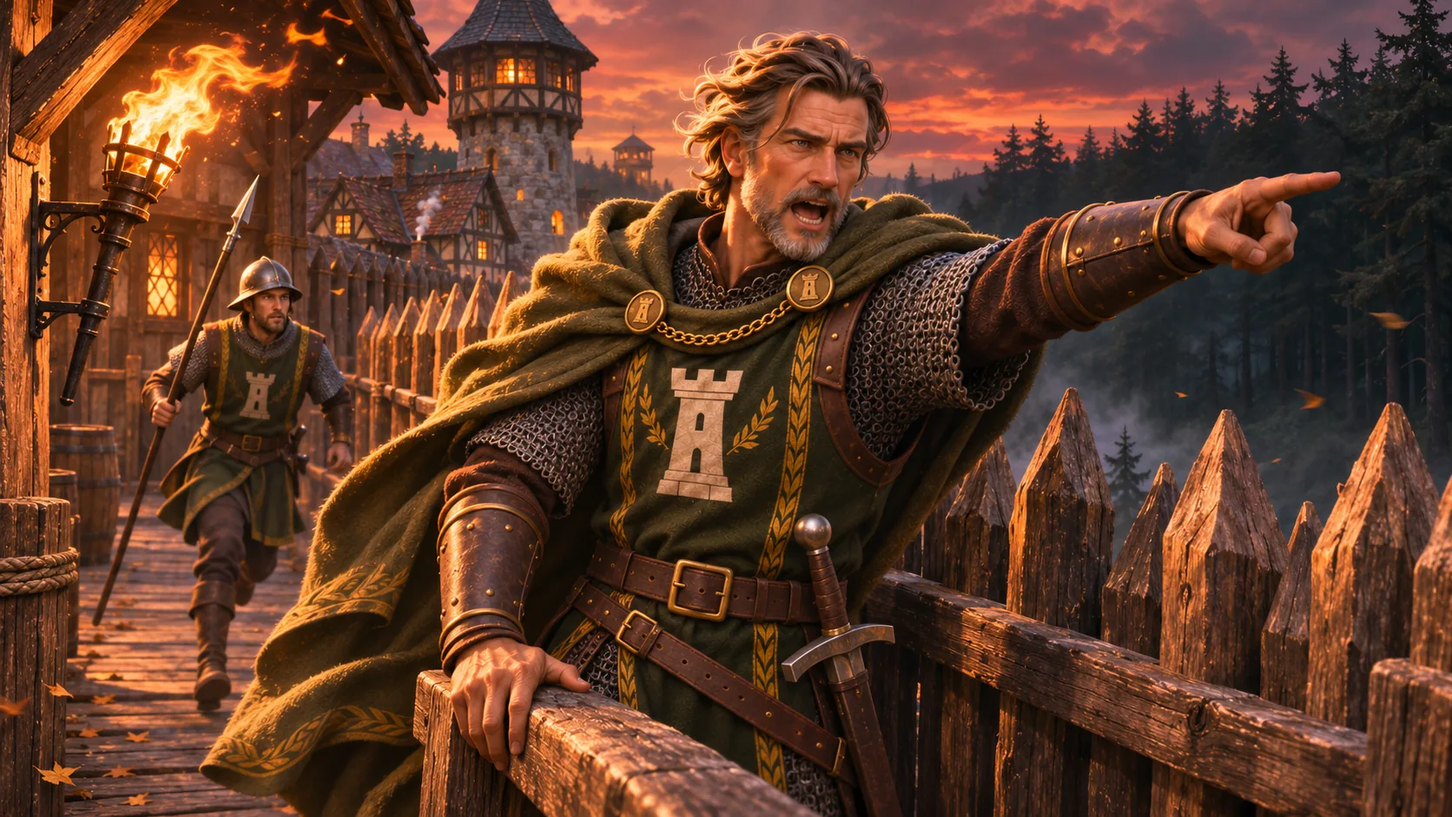
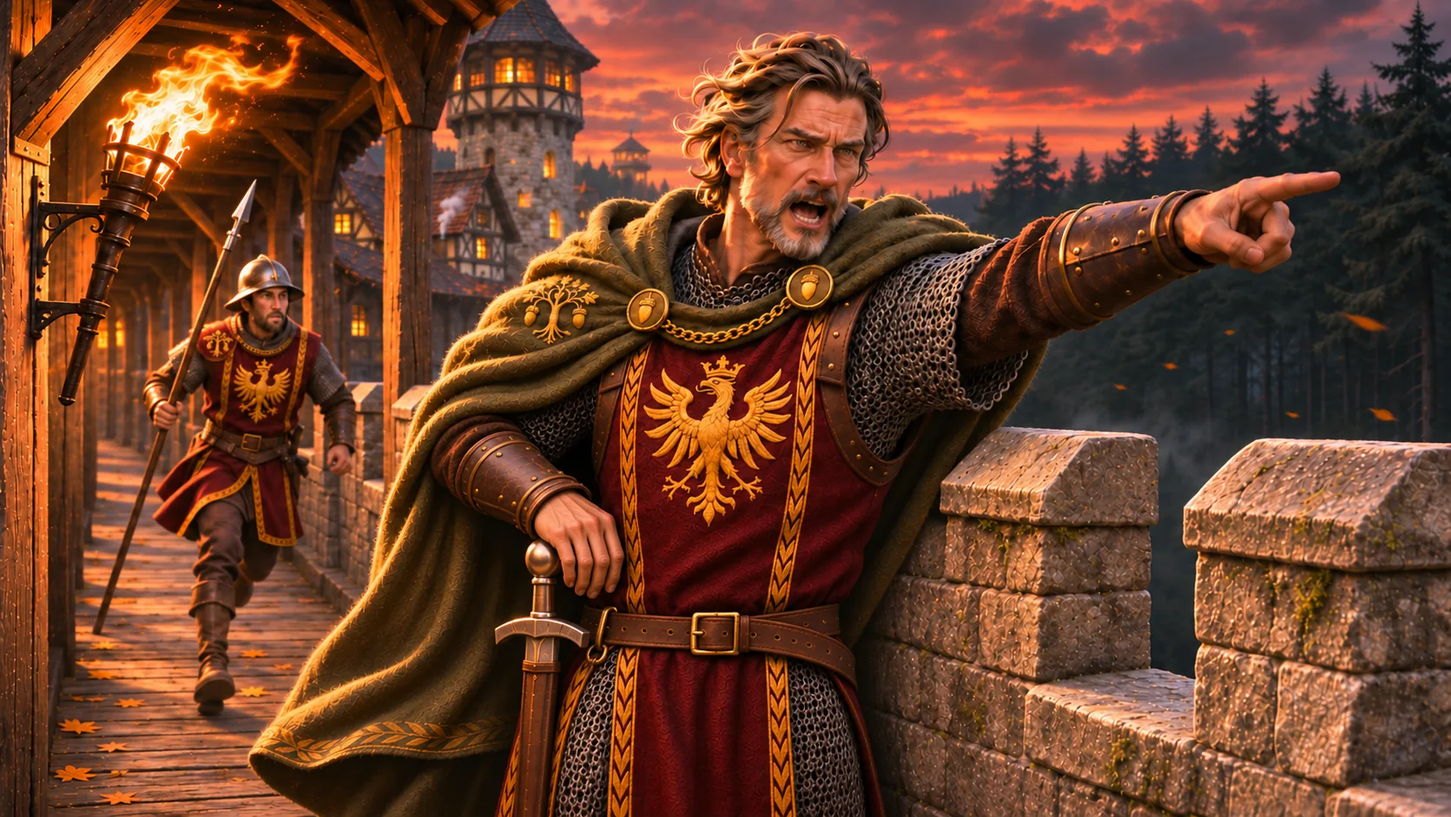
Show Captain Roland on the stone wall in the king's colours
Roland now stands on the covered wall-walk of the stone wall in his
oxblood tabard with the eagle, Hayn's oak on his cloak and his hand on
his sword, with a guard in the same colours behind him.

diff --git a/de/characters/index.html b/de/characters/index.html
@@ -39,7 +39,7 @@
 </div></section>
 <section class="wrap section ">
 <p class="lede" style="margin-bottom:64px">Kurz, bodenständig und ein wenig trocken: die Leute, die Hayn am Laufen halten und dich hinausschicken.</p>
-<div class="feature"><div class="feature-media"><figure class="fig "><a class="lb" href="../../assets/img/full/ACT-CH-ROLAND.webp" data-caption=""><img src="../../assets/img/thumb/ACT-CH-ROLAND.webp" alt="Hauptmann Roland" width="960" height="540" loading="lazy" decoding="async"></a></figure></div><div class="feature-text"><h3>Hauptmann Roland</h3><p class="job-role" style="font-size:1rem;color:var(--glyph)">Hauptmann der Wache</p><p>Ein müder, anständiger Grenzhauptmann mit zu viel Straße zum Bewachen und zu wenig Leuten dafür. Er gibt dir deine erste Aufgabe und die meisten danach.</p><p class="tags"><span>Rathaus & Wachhaus</span></p><blockquote class="quote"><p>„Du kannst eine Waffe halten? Gut. Damit bist du den meisten meiner Wache voraus.“</p><cite>Hauptmann Roland</cite></blockquote></div></div><div class="feature flip"><div class="feature-media"><figure class="fig "><a class="lb" href="../../assets/img/full/ACT-CH-BRON.webp" data-caption=""><img src="../../assets/img/thumb/ACT-CH-BRON.webp" alt="Bron" width="960" height="540" loading="lazy" decoding="async"></a></figure></div><div class="feature-text"><h3>Bron</h3><p class="job-role" style="font-size:1rem;color:var(--glyph)">Drillmeister · Paladin-Gilde</p><p>Barsch, laut und öfter im Recht, als irgendwem lieb ist. Bron hat jede Wache in Hayn ausgebildet.</p><p class="tags"><span>Kaserne & Übungsplatz</span></p><blockquote class="quote"><p>„Schild hoch. Nochmal.“</p><cite>Bron</cite></blockquote></div></div><div class="feature"><div class="feature-media"><figure class="fig "><a class="lb" href="../../assets/img/full/ACT-CH-HAGEN.webp" data-caption=""><img src="../../assets/img/thumb/ACT-CH-HAGEN.webp" alt="Hagen" width="960" height="540" loading="lazy" decoding="async"></a></figure></div><div class="feature-text"><h3>Hagen</h3><p class="job-role" style="font-size:1rem;color:var(--glyph)">Rangermeister · Ranger-Gilde</p><p>Ruhig. Hagen kennt den Wolfsforst besser als jeder andere, und er hat als Erster bemerkt, dass sich das Rudel verändert.</p><p class="tags"><span>Jägerhütte</span></p><blockquote class="quote"><p>„Sie sind nicht hungrig. Das macht mir Sorgen.“</p><cite>Hagen</cite></blockquote></div></div><div class="feature flip"><div class="feature-media"><figure class="fig "><a class="lb" href="../../assets/img/full/ACT-CH-MIRA.webp" data-caption=""><img src="../../assets/img/thumb/ACT-CH-MIRA.webp" alt="Mira" width="960" height="540" loading="lazy" decoding="async"></a></figure></div><div class="feature-text"><h3>Mira</h3><p class="job-role" style="font-size:1rem;color:var(--glyph)">Kräuterkundige · Weißmagier-Gilde</p><p>Warmherzig und praktisch, und eine Shumadii vom elfenhaften Volk aus einer anderen Welt. Mira flickt die Stadt zusammen, verkauft Kräuter und lehrt das Heilen am alten Quellschrein in ihrem Garten.</p><p class="tags"><span>Kräuterhaus & Quellschrein</span></p><blockquote class="quote"><p>„Setz dich. Trink das. Dann sag mir, welcher Wolf.“</p><cite>Mira</cite></blockquote></div></div><div class="feature"><div class="feature-media"><figure class="fig "><a class="lb" href="../../assets/img/full/ACT-CH-ELWYN.webp" data-caption=""><img src="../../assets/img/thumb/ACT-CH-ELWYN.webp" alt="Elwyn" width="960" height="540" loading="lazy" decoding="async"></a></figure></div><div class="feature-text"><h3>Elwyn</h3><p class="job-role" style="font-size:1rem;color:var(--glyph)">Der Magier · Elementaristen-Gilde</p><p>Ein Shumadii aus dem elfenhaften Volk einer anderen Welt, älter, als sich irgendwer in Hayn erinnern kann. Neugierig und etwas zerstreut, mit Kerzen, die auf Bücherstapeln heruntergebrannt sind. Das rote Leuchten im Turmfenster ist die einzige Magie, die die meisten Stadtbewohner je sehen.</p><p class="tags"><span>Elwyns Turm</span></p><blockquote class="quote"><p>„Ah, ein Schüler. Pass auf die Bücher auf. Und den Boden. Und darauf.“</p><cite>Elwyn</cite></blockquote></div></div><div class="feature flip"><div class="feature-media"><figure class="fig "><a class="lb" href="../../assets/img/full/ACT-CH-HALDOR.webp" data-caption=""><img src="../../assets/img/thumb/ACT-CH-HALDOR.webp" alt="Hermann" width="960" height="540" loading="lazy" decoding="async"></a></figure></div><div class="feature-text"><h3>Hermann</h3><p class="job-role" style="font-size:1rem;color:var(--glyph)">Der Schmied</p><p>Hermann verkauft Waffen und Rüstungen, kauft Felle und bringt jedem, der fünf Felle und etwas Eisen hat, bei, wie man Armschienen macht.</p><p class="tags"><span>Die Schmiede</span></p><blockquote class="quote"><p>„Felle. Keine Fetzen. Felle.“</p><cite>Hermann</cite></blockquote></div></div>
+<div class="feature"><div class="feature-media"><figure class="fig "><a class="lb" href="../../assets/img/full/ACT-CH-ROLAND.webp" data-caption=""><img src="../../assets/img/thumb/ACT-CH-ROLAND.webp" alt="Hauptmann Roland" width="960" height="541" loading="lazy" decoding="async"></a></figure></div><div class="feature-text"><h3>Hauptmann Roland</h3><p class="job-role" style="font-size:1rem;color:var(--glyph)">Hauptmann der Wache</p><p>Ein müder, anständiger Grenzhauptmann mit zu viel Straße zum Bewachen und zu wenig Leuten dafür. Er gibt dir deine erste Aufgabe und die meisten danach.</p><p class="tags"><span>Rathaus & Wachhaus</span></p><blockquote class="quote"><p>„Du kannst eine Waffe halten? Gut. Damit bist du den meisten meiner Wache voraus.“</p><cite>Hauptmann Roland</cite></blockquote></div></div><div class="feature flip"><div class="feature-media"><figure class="fig "><a class="lb" href="../../assets/img/full/ACT-CH-BRON.webp" data-caption=""><img src="../../assets/img/thumb/ACT-CH-BRON.webp" alt="Bron" width="960" height="540" loading="lazy" decoding="async"></a></figure></div><div class="feature-text"><h3>Bron</h3><p class="job-role" style="font-size:1rem;color:var(--glyph)">Drillmeister · Paladin-Gilde</p><p>Barsch, laut und öfter im Recht, als irgendwem lieb ist. Bron hat jede Wache in Hayn ausgebildet.</p><p class="tags"><span>Kaserne & Übungsplatz</span></p><blockquote class="quote"><p>„Schild hoch. Nochmal.“</p><cite>Bron</cite></blockquote></div></div><div class="feature"><div class="feature-media"><figure class="fig "><a class="lb" href="../../assets/img/full/ACT-CH-HAGEN.webp" data-caption=""><img src="../../assets/img/thumb/ACT-CH-HAGEN.webp" alt="Hagen" width="960" height="540" loading="lazy" decoding="async"></a></figure></div><div class="feature-text"><h3>Hagen</h3><p class="job-role" style="font-size:1rem;color:var(--glyph)">Rangermeister · Ranger-Gilde</p><p>Ruhig. Hagen kennt den Wolfsforst besser als jeder andere, und er hat als Erster bemerkt, dass sich das Rudel verändert.</p><p class="tags"><span>Jägerhütte</span></p><blockquote class="quote"><p>„Sie sind nicht hungrig. Das macht mir Sorgen.“</p><cite>Hagen</cite></blockquote></div></div><div class="feature flip"><div class="feature-media"><figure class="fig "><a class="lb" href="../../assets/img/full/ACT-CH-MIRA.webp" data-caption=""><img src="../../assets/img/thumb/ACT-CH-MIRA.webp" alt="Mira" width="960" height="540" loading="lazy" decoding="async"></a></figure></div><div class="feature-text"><h3>Mira</h3><p class="job-role" style="font-size:1rem;color:var(--glyph)">Kräuterkundige · Weißmagier-Gilde</p><p>Warmherzig und praktisch, und eine Shumadii vom elfenhaften Volk aus einer anderen Welt. Mira flickt die Stadt zusammen, verkauft Kräuter und lehrt das Heilen am alten Quellschrein in ihrem Garten.</p><p class="tags"><span>Kräuterhaus & Quellschrein</span></p><blockquote class="quote"><p>„Setz dich. Trink das. Dann sag mir, welcher Wolf.“</p><cite>Mira</cite></blockquote></div></div><div class="feature"><div class="feature-media"><figure class="fig "><a class="lb" href="../../assets/img/full/ACT-CH-ELWYN.webp" data-caption=""><img src="../../assets/img/thumb/ACT-CH-ELWYN.webp" alt="Elwyn" width="960" height="540" loading="lazy" decoding="async"></a></figure></div><div class="feature-text"><h3>Elwyn</h3><p class="job-role" style="font-size:1rem;color:var(--glyph)">Der Magier · Elementaristen-Gilde</p><p>Ein Shumadii aus dem elfenhaften Volk einer anderen Welt, älter, als sich irgendwer in Hayn erinnern kann. Neugierig und etwas zerstreut, mit Kerzen, die auf Bücherstapeln heruntergebrannt sind. Das rote Leuchten im Turmfenster ist die einzige Magie, die die meisten Stadtbewohner je sehen.</p><p class="tags"><span>Elwyns Turm</span></p><blockquote class="quote"><p>„Ah, ein Schüler. Pass auf die Bücher auf. Und den Boden. Und darauf.“</p><cite>Elwyn</cite></blockquote></div></div><div class="feature flip"><div class="feature-media"><figure class="fig "><a class="lb" href="../../assets/img/full/ACT-CH-HALDOR.webp" data-caption=""><img src="../../assets/img/thumb/ACT-CH-HALDOR.webp" alt="Hermann" width="960" height="540" loading="lazy" decoding="async"></a></figure></div><div class="feature-text"><h3>Hermann</h3><p class="job-role" style="font-size:1rem;color:var(--glyph)">Der Schmied</p><p>Hermann verkauft Waffen und Rüstungen, kauft Felle und bringt jedem, der fünf Felle und etwas Eisen hat, bei, wie man Armschienen macht.</p><p class="tags"><span>Die Schmiede</span></p><blockquote class="quote"><p>„Felle. Keine Fetzen. Felle.“</p><cite>Hermann</cite></blockquote></div></div>
 <h2 style="margin-top:80px">Außerdem in der Stadt</h2>
 <div class="modes"><div class="mode"><h3>Der Wirt</h3><p>Führt die Goldene Eichel. Bett, Essen und ein Ort, zu dem man zurückkehrt.</p></div><div class="mode"><h3>Der Krämer</h3><p>Tränke, Seile, Lampen und Taschen, am Platz.</p></div><div class="mode"><h3>Der Holzfäller</h3><p>Am Waldrand, mit etwas zu den Wölfen zu sagen.</p></div><div class="mode"><h3>Der Händler</h3><p>Wartet am Runenportal auf jemanden, der seinen Karren nach Frankfurt bringt.</p></div><div class="mode"><h3>Der verwundete Kundschafter</h3><p>Auf der Straße zu finden, hinter dem Hinterhalt.</p></div><div class="mode"><h3>Stadtbewohner</h3><p>Wachen, Händler, ein Bäcker, ein Müller, Kinder, ein Barde im Gasthaus und ein Hund, der die Katze jagt.</p></div></div></section>
 <div class="wrap"><nav class="pager" aria-label="Page"><a class="prev" href="../../de/world/road.html"><small>Zurück</small>Straße nach Frankfurt</a><a class="next" href="../../de/characters/creatures.html"><small>Weiter</small>Kreaturen</a></nav></div>

diff --git a/characters/index.html b/characters/index.html
@@ -39,7 +39,7 @@
 </div></section>
 <section class="wrap section ">
 <p class="lede" style="margin-bottom:64px">Short, grounded and a little dry: the people who run Hayn and send you out of it.</p>
-<div class="feature"><div class="feature-media"><figure class="fig "><a class="lb" href="../assets/img/full/ACT-CH-ROLAND.webp" data-caption=""><img src="../assets/img/thumb/ACT-CH-ROLAND.webp" alt="Captain Roland" width="960" height="540" loading="lazy" decoding="async"></a></figure></div><div class="feature-text"><h3>Captain Roland</h3><p class="job-role" style="font-size:1rem;color:var(--glyph)">Captain of the watch</p><p>A tired, decent border captain with too much road to guard and too few people to guard it. He gives you your first task and most of the ones after it.</p><p class="tags"><span>Town Hall & Watch House</span></p><blockquote class="quote"><p>“You can hold a weapon? Good. That puts you ahead of most of my watch.”</p><cite>Captain Roland</cite></blockquote></div></div><div class="feature flip"><div class="feature-media"><figure class="fig "><a class="lb" href="../assets/img/full/ACT-CH-BRON.webp" data-caption=""><img src="../assets/img/thumb/ACT-CH-BRON.webp" alt="Bron" width="960" height="540" loading="lazy" decoding="async"></a></figure></div><div class="feature-text"><h3>Bron</h3><p class="job-role" style="font-size:1rem;color:var(--glyph)">Drill master · Paladin guild</p><p>Gruff, loud, and right more often than anyone likes. Bron has trained every guard in Hayn.</p><p class="tags"><span>Barracks & Training Yard</span></p><blockquote class="quote"><p>“Shield up. Again.”</p><cite>Bron</cite></blockquote></div></div><div class="feature"><div class="feature-media"><figure class="fig "><a class="lb" href="../assets/img/full/ACT-CH-HAGEN.webp" data-caption=""><img src="../assets/img/thumb/ACT-CH-HAGEN.webp" alt="Hagen" width="960" height="540" loading="lazy" decoding="async"></a></figure></div><div class="feature-text"><h3>Hagen</h3><p class="job-role" style="font-size:1rem;color:var(--glyph)">Ranger master · Ranger guild</p><p>Quiet. Hagen knows the Wolfwood better than anyone alive, and was the first to notice the pack changing.</p><p class="tags"><span>Hunters' Lodge</span></p><blockquote class="quote"><p>“They're not hungry. That's what worries me.”</p><cite>Hagen</cite></blockquote></div></div><div class="feature flip"><div class="feature-media"><figure class="fig "><a class="lb" href="../assets/img/full/ACT-CH-MIRA.webp" data-caption=""><img src="../assets/img/thumb/ACT-CH-MIRA.webp" alt="Mira" width="960" height="540" loading="lazy" decoding="async"></a></figure></div><div class="feature-text"><h3>Mira</h3><p class="job-role" style="font-size:1rem;color:var(--glyph)">Herbalist · White Mage guild</p><p>Warm and practical, and a Shumadii, one of the elf-like people from another world. Mira patches up the town, sells herbs, and teaches healing at the old spring shrine in her garden.</p><p class="tags"><span>Herbalist's House & Spring Shrine</span></p><blockquote class="quote"><p>“Sit. Drink this. Then tell me which wolf.”</p><cite>Mira</cite></blockquote></div></div><div class="feature"><div class="feature-media"><figure class="fig "><a class="lb" href="../assets/img/full/ACT-CH-ELWYN.webp" data-caption=""><img src="../assets/img/thumb/ACT-CH-ELWYN.webp" alt="Elwyn" width="960" height="540" loading="lazy" decoding="async"></a></figure></div><div class="feature-text"><h3>Elwyn</h3><p class="job-role" style="font-size:1rem;color:var(--glyph)">The mage · Elementalist guild</p><p>A Shumadii, one of the elf-like people from another world, older than anyone in Hayn can remember. Curious and slightly distracted, with candles melted onto stacks of books. The red glow in the tower window at night is the only magic most townsfolk ever see.</p><p class="tags"><span>Elwyn's Tower</span></p><blockquote class="quote"><p>“Ah, a student. Mind the books. And the floor. And that.”</p><cite>Elwyn</cite></blockquote></div></div><div class="feature flip"><div class="feature-media"><figure class="fig "><a class="lb" href="../assets/img/full/ACT-CH-HALDOR.webp" data-caption=""><img src="../assets/img/thumb/ACT-CH-HALDOR.webp" alt="Hermann" width="960" height="540" loading="lazy" decoding="async"></a></figure></div><div class="feature-text"><h3>Hermann</h3><p class="job-role" style="font-size:1rem;color:var(--glyph)">The smith</p><p>Hermann sells weapons and armour, buys pelts, and will teach anyone with five pelts and some iron how to make a pair of bracers.</p><p class="tags"><span>The forge</span></p><blockquote class="quote"><p>“Pelts. Not scraps. Pelts.”</p><cite>Hermann</cite></blockquote></div></div>
+<div class="feature"><div class="feature-media"><figure class="fig "><a class="lb" href="../assets/img/full/ACT-CH-ROLAND.webp" data-caption=""><img src="../assets/img/thumb/ACT-CH-ROLAND.webp" alt="Captain Roland" width="960" height="541" loading="lazy" decoding="async"></a></figure></div><div class="feature-text"><h3>Captain Roland</h3><p class="job-role" style="font-size:1rem;color:var(--glyph)">Captain of the watch</p><p>A tired, decent border captain with too much road to guard and too few people to guard it. He gives you your first task and most of the ones after it.</p><p class="tags"><span>Town Hall & Watch House</span></p><blockquote class="quote"><p>“You can hold a weapon? Good. That puts you ahead of most of my watch.”</p><cite>Captain Roland</cite></blockquote></div></div><div class="feature flip"><div class="feature-media"><figure class="fig "><a class="lb" href="../assets/img/full/ACT-CH-BRON.webp" data-caption=""><img src="../assets/img/thumb/ACT-CH-BRON.webp" alt="Bron" width="960" height="540" loading="lazy" decoding="async"></a></figure></div><div class="feature-text"><h3>Bron</h3><p class="job-role" style="font-size:1rem;color:var(--glyph)">Drill master · Paladin guild</p><p>Gruff, loud, and right more often than anyone likes. Bron has trained every guard in Hayn.</p><p class="tags"><span>Barracks & Training Yard</span></p><blockquote class="quote"><p>“Shield up. Again.”</p><cite>Bron</cite></blockquote></div></div><div class="feature"><div class="feature-media"><figure class="fig "><a class="lb" href="../assets/img/full/ACT-CH-HAGEN.webp" data-caption=""><img src="../assets/img/thumb/ACT-CH-HAGEN.webp" alt="Hagen" width="960" height="540" loading="lazy" decoding="async"></a></figure></div><div class="feature-text"><h3>Hagen</h3><p class="job-role" style="font-size:1rem;color:var(--glyph)">Ranger master · Ranger guild</p><p>Quiet. Hagen knows the Wolfwood better than anyone alive, and was the first to notice the pack changing.</p><p class="tags"><span>Hunters' Lodge</span></p><blockquote class="quote"><p>“They're not hungry. That's what worries me.”</p><cite>Hagen</cite></blockquote></div></div><div class="feature flip"><div class="feature-media"><figure class="fig "><a class="lb" href="../assets/img/full/ACT-CH-MIRA.webp" data-caption=""><img src="../assets/img/thumb/ACT-CH-MIRA.webp" alt="Mira" width="960" height="540" loading="lazy" decoding="async"></a></figure></div><div class="feature-text"><h3>Mira</h3><p class="job-role" style="font-size:1rem;color:var(--glyph)">Herbalist · White Mage guild</p><p>Warm and practical, and a Shumadii, one of the elf-like people from another world. Mira patches up the town, sells herbs, and teaches healing at the old spring shrine in her garden.</p><p class="tags"><span>Herbalist's House & Spring Shrine</span></p><blockquote class="quote"><p>“Sit. Drink this. Then tell me which wolf.”</p><cite>Mira</cite></blockquote></div></div><div class="feature"><div class="feature-media"><figure class="fig "><a class="lb" href="../assets/img/full/ACT-CH-ELWYN.webp" data-caption=""><img src="../assets/img/thumb/ACT-CH-ELWYN.webp" alt="Elwyn" width="960" height="540" loading="lazy" decoding="async"></a></figure></div><div class="feature-text"><h3>Elwyn</h3><p class="job-role" style="font-size:1rem;color:var(--glyph)">The mage · Elementalist guild</p><p>A Shumadii, one of the elf-like people from another world, older than anyone in Hayn can remember. Curious and slightly distracted, with candles melted onto stacks of books. The red glow in the tower window at night is the only magic most townsfolk ever see.</p><p class="tags"><span>Elwyn's Tower</span></p><blockquote class="quote"><p>“Ah, a student. Mind the books. And the floor. And that.”</p><cite>Elwyn</cite></blockquote></div></div><div class="feature flip"><div class="feature-media"><figure class="fig "><a class="lb" href="../assets/img/full/ACT-CH-HALDOR.webp" data-caption=""><img src="../assets/img/thumb/ACT-CH-HALDOR.webp" alt="Hermann" width="960" height="540" loading="lazy" decoding="async"></a></figure></div><div class="feature-text"><h3>Hermann</h3><p class="job-role" style="font-size:1rem;color:var(--glyph)">The smith</p><p>Hermann sells weapons and armour, buys pelts, and will teach anyone with five pelts and some iron how to make a pair of bracers.</p><p class="tags"><span>The forge</span></p><blockquote class="quote"><p>“Pelts. Not scraps. Pelts.”</p><cite>Hermann</cite></blockquote></div></div>
 <h2 style="margin-top:80px">Also in town</h2>
 <div class="modes"><div class="mode"><h3>The innkeeper</h3><p>Runs the Golden Acorn. Bed, food and a place to come back to.</p></div><div class="mode"><h3>The storekeeper</h3><p>Potions, rope, lamps and bags, on the square.</p></div><div class="mode"><h3>The woodcutter</h3><p>At the forest edge, with something to say about the wolves.</p></div><div class="mode"><h3>The merchant</h3><p>Waiting at the Rune Portal for someone to see his cart to Frankfurt.</p></div><div class="mode"><h3>The wounded scout</h3><p>Found on the road, past the ambush.</p></div><div class="mode"><h3>Townsfolk</h3><p>Guards, vendors, a baker, a miller, children, a bard in the inn, and a dog that chases the cat.</p></div></div></section>
 <div class="wrap"><nav class="pager" aria-label="Page"><a class="prev" href="../world/road.html"><small>Previous</small>Road to Frankfurt</a><a class="next" href="../characters/creatures.html"><small>Next</small>Creatures</a></nav></div>

diff --git a/de/index.html b/de/index.html
@@ -91,7 +91,7 @@
       <h2>Wen du triffst</h2>
       <a class="text-link" href="../de/characters/index.html">Alle Leute von Hayn</a>
     </div>
-    <div class="cast"><a class="portrait" href="../de/characters/index.html"><figure class="fig "><img src="../assets/img/thumb/ACT-CH-ROLAND.webp" alt="Hauptmann Roland" width="960" height="540" loading="lazy" decoding="async"></figure><span class="portrait-text"><span class="portrait-name">Hauptmann Roland</span><span class="portrait-role">Der müde Grenzhauptmann</span></span></a><a class="portrait" href="../de/characters/index.html"><figure class="fig "><img src="../assets/img/thumb/ACT-CH-HALDOR.webp" alt="Hermann" width="960" height="540" loading="lazy" decoding="async"></figure><span class="portrait-text"><span class="portrait-name">Hermann</span><span class="portrait-role">Der Schmied</span></span></a><a class="portrait" href="../de/characters/index.html"><figure class="fig "><img src="../assets/img/thumb/ACT-CH-MIRA.webp" alt="Mira" width="960" height="540" loading="lazy" decoding="async"></figure><span class="portrait-text"><span class="portrait-name">Mira</span><span class="portrait-role">Die Kräuterkundige</span></span></a><a class="portrait" href="../de/characters/index.html"><figure class="fig "><img src="../assets/img/thumb/ACT-CH-ELWYN.webp" alt="Elwyn" width="960" height="540" loading="lazy" decoding="async"></figure><span class="portrait-text"><span class="portrait-name">Elwyn</span><span class="portrait-role">Der Magier im Turm</span></span></a></div>
+    <div class="cast"><a class="portrait" href="../de/characters/index.html"><figure class="fig "><img src="../assets/img/thumb/ACT-CH-ROLAND.webp" alt="Hauptmann Roland" width="960" height="541" loading="lazy" decoding="async"></figure><span class="portrait-text"><span class="portrait-name">Hauptmann Roland</span><span class="portrait-role">Der müde Grenzhauptmann</span></span></a><a class="portrait" href="../de/characters/index.html"><figure class="fig "><img src="../assets/img/thumb/ACT-CH-HALDOR.webp" alt="Hermann" width="960" height="540" loading="lazy" decoding="async"></figure><span class="portrait-text"><span class="portrait-name">Hermann</span><span class="portrait-role">Der Schmied</span></span></a><a class="portrait" href="../de/characters/index.html"><figure class="fig "><img src="../assets/img/thumb/ACT-CH-MIRA.webp" alt="Mira" width="960" height="540" loading="lazy" decoding="async"></figure><span class="portrait-text"><span class="portrait-name">Mira</span><span class="portrait-role">Die Kräuterkundige</span></span></a><a class="portrait" href="../de/characters/index.html"><figure class="fig "><img src="../assets/img/thumb/ACT-CH-ELWYN.webp" alt="Elwyn" width="960" height="540" loading="lazy" decoding="async"></figure><span class="portrait-text"><span class="portrait-name">Elwyn</span><span class="portrait-role">Der Magier im Turm</span></span></a></div>
   </div>
 </section>
 

diff --git a/index.html b/index.html
@@ -91,7 +91,7 @@
       <h2>Who you'll meet</h2>
       <a class="text-link" href="characters/index.html">All the people of Hayn</a>
     </div>
-    <div class="cast"><a class="portrait" href="characters/index.html"><figure class="fig "><img src="assets/img/thumb/ACT-CH-ROLAND.webp" alt="Captain Roland" width="960" height="540" loading="lazy" decoding="async"></figure><span class="portrait-text"><span class="portrait-name">Captain Roland</span><span class="portrait-role">The tired border captain</span></span></a><a class="portrait" href="characters/index.html"><figure class="fig "><img src="assets/img/thumb/ACT-CH-HALDOR.webp" alt="Hermann" width="960" height="540" loading="lazy" decoding="async"></figure><span class="portrait-text"><span class="portrait-name">Hermann</span><span class="portrait-role">The smith</span></span></a><a class="portrait" href="characters/index.html"><figure class="fig "><img src="assets/img/thumb/ACT-CH-MIRA.webp" alt="Mira" width="960" height="540" loading="lazy" decoding="async"></figure><span class="portrait-text"><span class="portrait-name">Mira</span><span class="portrait-role">The herbalist</span></span></a><a class="portrait" href="characters/index.html"><figure class="fig "><img src="assets/img/thumb/ACT-CH-ELWYN.webp" alt="Elwyn" width="960" height="540" loading="lazy" decoding="async"></figure><span class="portrait-text"><span class="portrait-name">Elwyn</span><span class="portrait-role">The mage in the tower</span></span></a></div>
+    <div class="cast"><a class="portrait" href="characters/index.html"><figure class="fig "><img src="assets/img/thumb/ACT-CH-ROLAND.webp" alt="Captain Roland" width="960" height="541" loading="lazy" decoding="async"></figure><span class="portrait-text"><span class="portrait-name">Captain Roland</span><span class="portrait-role">The tired border captain</span></span></a><a class="portrait" href="characters/index.html"><figure class="fig "><img src="assets/img/thumb/ACT-CH-HALDOR.webp" alt="Hermann" width="960" height="540" loading="lazy" decoding="async"></figure><span class="portrait-text"><span class="portrait-name">Hermann</span><span class="portrait-role">The smith</span></span></a><a class="portrait" href="characters/index.html"><figure class="fig "><img src="assets/img/thumb/ACT-CH-MIRA.webp" alt="Mira" width="960" height="540" loading="lazy" decoding="async"></figure><span class="portrait-text"><span class="portrait-name">Mira</span><span class="portrait-role">The herbalist</span></span></a><a class="portrait" href="characters/index.html"><figure class="fig "><img src="assets/img/thumb/ACT-CH-ELWYN.webp" alt="Elwyn" width="960" height="540" loading="lazy" decoding="async"></figure><span class="portrait-text"><span class="portrait-name">Elwyn</span><span class="portrait-role">The mage in the tower</span></span></a></div>
   </div>
 </section>
 
